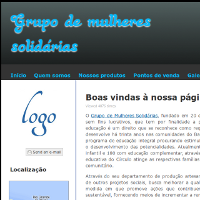
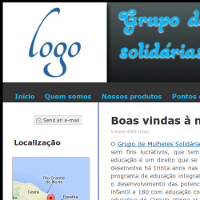
atualizacao do tema borboleta azul

diff --git a/borboleta_azul/stylesheets/style.css b/borboleta_azul/stylesheets/style.css
@@ -2097,7 +2097,7 @@ body.template-default .box-1 {
   width: 200px; }
 
 .box-1, .box-2, .box-3 {
-  padding-top: 30px; }
+  padding-top: 20px; }
 
 #boxes {
   border-top: 50px solid #333; }
@@ -2170,10 +2170,12 @@ body.template-leftbar #boxes, body.template-default #boxes {
 #content h1.page-title {
   top: 0;
   margin: 0;
-  padding: 20px 230px 0 30px;
-  height: 180px;
+  padding: 0;
+  height: 200px;
+  background: white url(images/butterflybrilliance_left.jpg) no-repeat left top; }
+
+#content h1.page-title, #content h1.page-title a:link, #content h1.page-title a:visited {
   line-height: normal;
-  background: white url(images/butterflybrilliance.png) no-repeat left top;
   font-family: BlackRoseRegular, Verdana, Arial, Helvetica, sans-serif;
   font-size: 60px;
   font-weight: normal;
@@ -2181,11 +2183,32 @@ body.template-leftbar #boxes, body.template-default #boxes {
   color: #08B8F9; }
 
 #content h1.page-title a:link, #content h1.page-title a:visited {
-  text-decoration: none;
-  color: #08B8F9; }
+  text-decoration: none; }
 
 #content h1.page-title span.solidarity-economy {
   text-shadow: #000 1px 1px; }
+
+#page-logo {
+  float: left;
+  height: 200px;
+  min-width: 260px;
+  background-color: #fff;
+  box-shadow: #000 4px 8px 10px;
+  text-align: center;
+  margin-right: 30px;
+  padding: 10px 0; }
+
+#content h1.page-title img {
+  height: 180px; }
+
+#content h1.page-title .profile-name {
+  padding-left: 290px; }
+
+.profile-big-image, .vcard p {
+  display: none; }
+
+.profile-info-options {
+  padding-top: 0; }
 
 /*header h2 {
 padding: 20px 0 0 30px;

diff --git a/borboleta_azul/stylesheets/_borboleta.scss b/borboleta_azul/stylesheets/_borboleta.scss
@@ -38,7 +38,7 @@ body.template-default .box-1 {
   width: 200px;
 }
 .box-1, .box-2, .box-3 {
-	padding-top:30px;
+	padding-top:20px;
 }
 #boxes {
 	border-top:50px solid #333;
@@ -123,10 +123,13 @@ overflow: hidden;
 #content h1.page-title {
 top: 0;
 margin: 0;
-padding: 20px 230px 0 30px;
-height: 180px;
+padding: 0;
+height: 200px;
+background: #fff url(images/butterflybrilliance_left.jpg) no-repeat left top;
+}
+
+#content h1.page-title, #content h1.page-title a:link, #content h1.page-title a:visited {
 line-height: normal;
-background: #fff url(images/butterflybrilliance.png) no-repeat left top;
 font-family: BlackRoseRegular, Verdana, Arial, Helvetica, sans-serif;
 font-size: 60px;
 font-weight: normal;
@@ -136,12 +139,36 @@ color: #08B8F9;
 
 #content h1.page-title a:link, #content h1.page-title a:visited {
 text-decoration: none;
-color: #08B8F9;
 }
 
 #content h1.page-title span.solidarity-economy {
 text-shadow: #000 1px 1px;
 }
+
+#page-logo {
+float:left;
+height:200px;
+min-width:260px;
+background-color:#fff;
+box-shadow: #000 4px 8px 10px;
+text-align:center;
+margin-right: 30px;
+padding: 10px 0;
+}
+#content h1.page-title img {
+height:180px;
+}
+#content h1.page-title .profile-name {
+padding-left:290px;
+}
+.profile-big-image, .vcard p {
+display:none;
+}
+.profile-info-options {
+padding-top:0;
+}
+
+
 
 /*header h2 {
 padding: 20px 0 0 30px;
